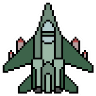
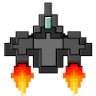
Final (Alleged) Cleanup with Explosions!

diff --git a/main.py b/main.py
@@ -18,11 +18,13 @@ LoseT = fontL.render('Game Over', True, (240,0,0))
 
 #Title and pictures init
 pygame.display.set_caption('Jets!')
-icon = pygame.image.load('rocket(1).png')
+icon = pygame.image.load('Jets_icon.png')
 background_img = pygame.image.load('Background.png')
 player_icon = pygame.image.load('Jet.png')
 alien_icon = pygame.image.load('Alien Ship.png')
-bullet_icon = pygame.image.load('bullet(1).png')
+bullet_icon = pygame.image.load('bullet.png')
+Explosion = pygame.image.load('Explosion.png')
+Explosions = []
 pygame.display.set_icon(icon)
 
 #Audio Init
@@ -85,7 +87,7 @@ def enemy(x, y, i):
 def fire_bullet(x, y):
     global bullet_state
     bullet_state = 'fire'
-    screen.blit(bullet_icon, (x + 16, y + 10))
+    screen.blit(bullet_icon, (x + 32, y + 10))
 
 #Bullet collision function
 def isCollision(enemyX, enemyY, bulletX, bulletY):
@@ -205,6 +207,8 @@ while running:
         if Death:
             #You Lose! Death Screen
             #Big transparent black box
+            pygame.mixer.Sound.play(Boom)
+            screen.blit(Explosion, (playerX, 630))
             pygame.gfxdraw.box(screen, pygame.Rect(0,0,20000,20000), (0,0,0,200))
             #Drawing text
             LoseR = LoseT.get_rect()
@@ -245,6 +249,7 @@ while running:
         if collision:
             #If Alien is hit...
             pygame.mixer.Sound.play(Boom)
+            Explosions.append([5, (bulletX, (bulletY-35))])
             bulletY = screen.get_height()
             bullet_state = 'reload'
             #If there is any more left in the spawn cue, spawn one of them now
@@ -253,6 +258,13 @@ while running:
             #Remove 1 from the spawn cue
             spawn -= 1
         enemy(enemyX[i], enemyY[i], i)
+
+    for i in Explosions:
+        if i[0]<0:
+            Explosions.remove(i)
+        else:
+            screen.blit(Explosion, i[1])
+            i[0]-=.1
 
     # bullet movements
     if bulletY <= 0:
